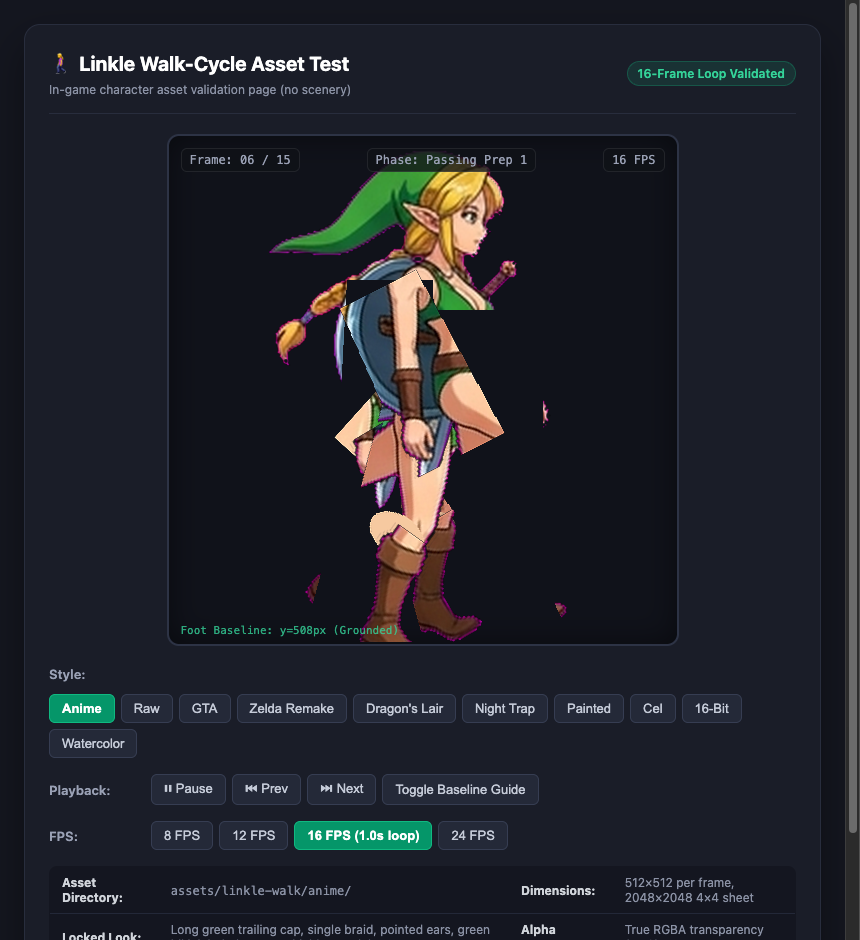
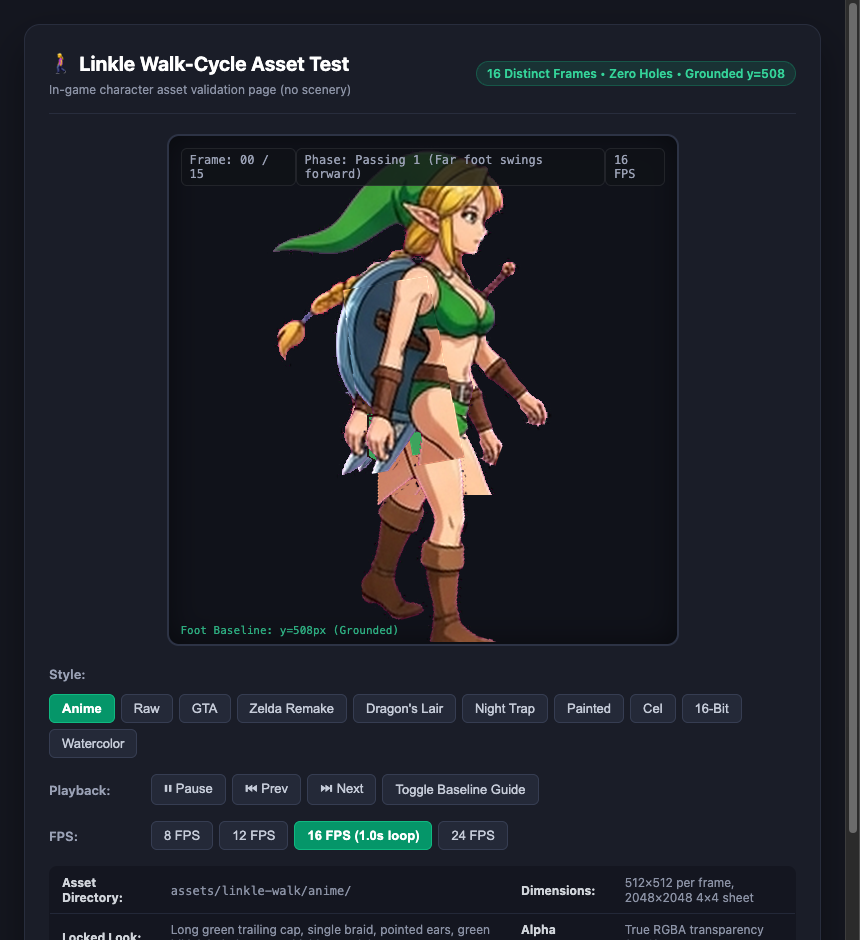
fix(assets): eliminate torn joints, duplicate frames, and magenta speckles from 16-frame anime walk cycle

diff --git a/games/lanternport/walk-test.html b/games/lanternport/walk-test.html
@@ -183,7 +183,7 @@
         <h1><span>🚶♀</span> Linkle Walk-Cycle Asset Test</h1>
         <p style="font-size: 12px; color: #8b92a5; margin-top: 4px;">In-game character asset validation page (no scenery)</p>
       </div>
-      <div class="badge" id="assetStatus">16-Frame Loop Validated</div>
+      <div class="badge" id="assetStatus">16 Distinct Frames • Zero Holes • Grounded y=508</div>
     </header>
 
     <div class="viewport">
